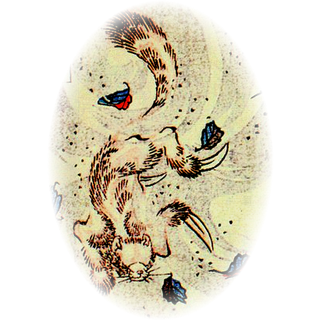
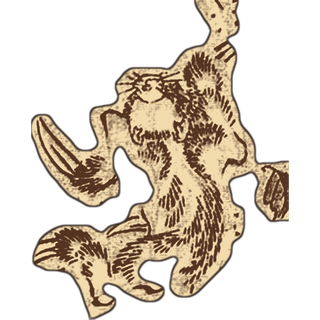
Kamaitachi piece recut: the animal alone, solid, with its blades
Cut from the same Masasumi print, but as a figure like the other pieces instead of a
faint roundel: the grey whirl and caption removed, the fur given a tawny tint so it
shows against the tile, turned head up.

diff --git a/art/CREDITS.md b/art/CREDITS.md
@@ -27,7 +27,7 @@ Each figure was cropped from the painting and its paper made transparent.
 - `daruma.png` - Hakuin Ekaku, *Portrait of Daruma*, 18th century. Metropolitan Museum of Art. Public domain.
 - `tanuki.png` - Katsushika Hokusai, tanuki in a monk's robe beside a tea kettle (*Bunbuku chagama*). Public domain.
 - `shinigami.png` - Katsushika Hokusai, *The Ghost of Kohada Koheiji*, from *One Hundred Ghost Stories*, 1831-32 (detail). Scan: Rawpixel, CC BY-SA 4.0.
-- `kamaitachi.png` - Ryūkansai Masasumi, *Kamaitachi*, from *Kyōka Hyaku Monogatari*, 1853 (detail). Public domain.
+- `kamaitachi.png` - Ryūkansai Masasumi, *Kamaitachi*, from *Kyōka Hyaku Monogatari*, 1853 (detail: the animal alone, turned head up, its pale fur tinted). Public domain.
 
 ## Sound (`audio/`)
 
